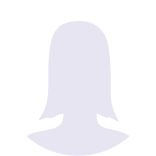
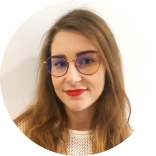
pages

diff --git a/portfolio/public/index.html b/portfolio/public/index.html
@@ -1,21 +1,19 @@
 <!DOCTYPE html>
 <html lang="en">
-  <head>
-    <meta charset="utf-8" />
-    <link rel="icon" href="%PUBLIC_URL%/favicon.ico" />
-    <meta name="viewport" content="width=device-width, initial-scale=1" />
-    <meta name="theme-color" content="#000000" />
-    <meta
-      name="description"
-      content="Web site created using create-react-app"
-    />
-    <link rel="apple-touch-icon" href="%PUBLIC_URL%/logo192.png" />
-    <!--
+
+<head>
+  <meta charset="utf-8" />
+  <link rel="icon" href="%PUBLIC_URL%/favicon.ico" />
+  <meta name="viewport" content="width=device-width, initial-scale=1" />
+  <meta name="theme-color" content="#000000" />
+  <meta name="description" content="To jest portfolio" />
+  <link rel="apple-touch-icon" href="%PUBLIC_URL%/logo192.png" />
+  <!--
       manifest.json provides metadata used when your web app is installed on a
       user's mobile device or desktop. See https://developers.google.com/web/fundamentals/web-app-manifest/
     -->
-    <link rel="manifest" href="%PUBLIC_URL%/manifest.json" />
-    <!--
+  <link rel="manifest" href="%PUBLIC_URL%/manifest.json" />
+  <!--
       Notice the use of %PUBLIC_URL% in the tags above.
       It will be replaced with the URL of the `public` folder during the build.
       Only files inside the `public` folder can be referenced from the HTML.
@@ -24,14 +22,18 @@
       work correctly both with client-side routing and a non-root public URL.
       Learn how to configure a non-root public URL by running `npm run build`.
     -->
-    <link href="https://fonts.googleapis.com/css2?family=Lato:ital,wght@0,100;0,300;0,400;0,700;0,900;1,100;1,300;1,400;1,700;1,900&display=swap" rel="stylesheet">
-    <link href="https://fonts.googleapis.com/css2?family=Volkhov&display=swap" rel="stylesheet">
-    <title>React App</title>
-  </head>
-  <body>
-    <noscript>You need to enable JavaScript to run this app.</noscript>
-    <div id="root"></div>
-    <!--
+  <link
+    href="https://fonts.googleapis.com/css2?family=Lato:ital,wght@0,100;0,300;0,400;0,700;0,900;1,100;1,300;1,400;1,700;1,900&display=swap"
+    rel="stylesheet">
+  <link href="https://fonts.googleapis.com/css2?family=Volkhov&display=swap" rel="stylesheet">
+  <title>Portfolio Justyna Klimczak</title>
+
+</head>
+
+<body>
+  <noscript>You need to enable JavaScript to run this app.</noscript>
+  <div id="root"></div>
+  <!--
       This HTML file is a template.
       If you open it directly in the browser, you will see an empty page.
 
@@ -41,5 +43,6 @@
       To begin the development, run `npm start` or `yarn start`.
       To create a production bundle, use `npm run build` or `yarn build`.
     -->
-  </body>
+</body>
+
 </html>

diff --git a/portfolio/src/components/navigator.js b/portfolio/src/components/navigator.js
@@ -7,17 +7,17 @@ export class Navigator extends Component{
             <nav className="navigatorNav">
                 <section className="user">
                     <div><img className="foto" src={fotka} alt=":)"/></div>
-                    <div><p>Imie Nazwisko</p></div>
+                    <div><p>Justyna Klimczak</p></div>
                 </section>
                 <section className="information">
-                    <div>GŁÓWNA</div>
-                    <div>O MNIE</div>
-                    <div>UMIEJĘTNOŚCI</div>
-                    <div>EDUKACJA</div>
-                    <div>DOŚWIADCZENIE</div>
+                    <div onClick={()=>this.props.onNavClick("home")}>GŁÓWNA</div>
+                    <div  onClick={()=>this.props.onNavClick("aboutMe")}>O MNIE</div>
+                    <div onClick={()=>this.props.onNavClick("skills")}>UMIEJĘTNOŚCI</div>
+                    <div onClick={()=>this.props.onNavClick("education")}>EDUKACJA</div>
+                    <div onClick={()=>this.props.onNavClick("experience")}>DOŚWIADCZENIE</div>
                     <div>KONTAKT</div>
                 </section>
-                <footer className="footer">Copyright</footer>    
+                <footer className="footer">Copyright 2020</footer>    
             </nav>
         )
     }

diff --git a/portfolio/src/components/layout.js b/portfolio/src/components/layout.js
@@ -1,19 +1,29 @@
 import React, { Component } from 'react';
 import './layout.css'
 import { Navigator } from './navigator';
-import { Home } from './home';
+import { Content } from './Content';
+
+
 export class Layout extends Component{
+
+    constructor(){
+        super()
+        this.state = {choosed:"home"}
+    }
+
+    changeView(name){
+        debugger
+        this.setState({choosed:name})
+    }
+
     render(){
         return(
             <div className="layoutGrid">
                      <header className="layoutNavigator">
-                         <Navigator></Navigator>
+                         <Navigator onNavClick={this.changeView.bind(this)}></Navigator>
                      </header>
                      <main className="layoutContent">
-                     <article className="layoutHome">
-                     <Home></Home>
-                     </article>
-                       
+                        <Content selected={this.state.choosed}></Content>
                      </main>
 
             </div>

diff --git a/portfolio/src/components/Content.js b/portfolio/src/components/Content.js
@@ -1,0 +1,32 @@
+import React, { Component } from 'react';
+import './content.css'
+import { Home } from './Pages/home';
+import { AboutMe } from './Pages/AboutMe';
+import { Skills } from './Pages/Skills';
+import { Education } from './Pages/Education';
+import { Experience } from './Pages/Experience';
+
+function getComponent(name){
+    switch(name){
+        case "home":
+            return <Home/>
+        case "aboutMe":
+            return <AboutMe/>
+        case "skills":
+            return <Skills/>
+        case "education":
+            return <Education/>
+        case "experience":
+            return <Experience/>
+            
+    }
+}
+
+
+export class Content extends Component{
+    render(){
+        return(
+            getComponent(this.props.selected)
+        )
+    }
+}

diff --git a/portfolio/src/components/Pages/home.js b/portfolio/src/components/Pages/home.js
@@ -1,12 +1,12 @@
 import React, { Component } from 'react';
-import './navigator.css'
+import './home.css'
 
 export class Home extends Component{
     render(){
         return(
-            <article className="layoutHome">
+            <article >
                 <div>
-                    Lorem ipsum
+                    Strona glowna
                     </div>
             </article>
         )

diff --git a/portfolio/src/components/Pages/Experience.js b/portfolio/src/components/Pages/Experience.js
@@ -1,0 +1,14 @@
+import React, { Component } from 'react';
+import './Experience.css'
+
+export class Experience extends Component{
+    render(){
+        return(
+            <article >
+                <div>
+                    doswiadczenie
+                    </div>
+            </article>
+        )
+    }
+}

diff --git a/portfolio/src/components/Pages/Education.js b/portfolio/src/components/Pages/Education.js
@@ -1,0 +1,14 @@
+import React, { Component } from 'react';
+import './Education.css'
+
+export class Education extends Component{
+    render(){
+        return(
+            <article >
+                <div>
+                    edu
+                    </div>
+            </article>
+        )
+    }
+}

diff --git a/portfolio/src/components/navigator.css b/portfolio/src/components/navigator.css
@@ -33,8 +33,13 @@
     flex-direction: column;
     height: 100%;
     justify-content: flex-end;
-    margin-bottom: 10px;
+    font-size: 14px;
+
 }
 .foto{
-    border-radius: 80px;
+    border-radius: 500px;
+}
+.information > div:hover {
+    text-decoration: underline;
+    cursor:  pointer;
 }

diff --git a/portfolio/src/components/Pages/AboutMe.js b/portfolio/src/components/Pages/AboutMe.js
@@ -1,0 +1,14 @@
+import React, { Component } from 'react';
+import './AboutMe.css'
+
+export class AboutMe extends Component{
+    render(){
+        return(
+            <article>
+                <div>
+                    o mnie
+                </div>
+            </article>
+        )
+    }
+}

diff --git a/portfolio/src/components/Pages/Skills.js b/portfolio/src/components/Pages/Skills.js
@@ -1,0 +1,14 @@
+import React, { Component } from 'react';
+import './Skills.css'
+
+export class Skills extends Component{
+    render(){
+        return(
+            <article>
+                <div>
+                    umiejki
+                </div>
+            </article>
+        )
+    }
+}

diff --git a/portfolio/google4d0d3c1ead503b38.html b/portfolio/google4d0d3c1ead503b38.html
@@ -1,0 +1,1 @@
+google-site-verification: google4d0d3c1ead503b38.html

diff --git a/portfolio/src/google4d0d3c1ead503b38.html b/portfolio/src/google4d0d3c1ead503b38.html
@@ -1,0 +1,1 @@
+google-site-verification: google4d0d3c1ead503b38.html
